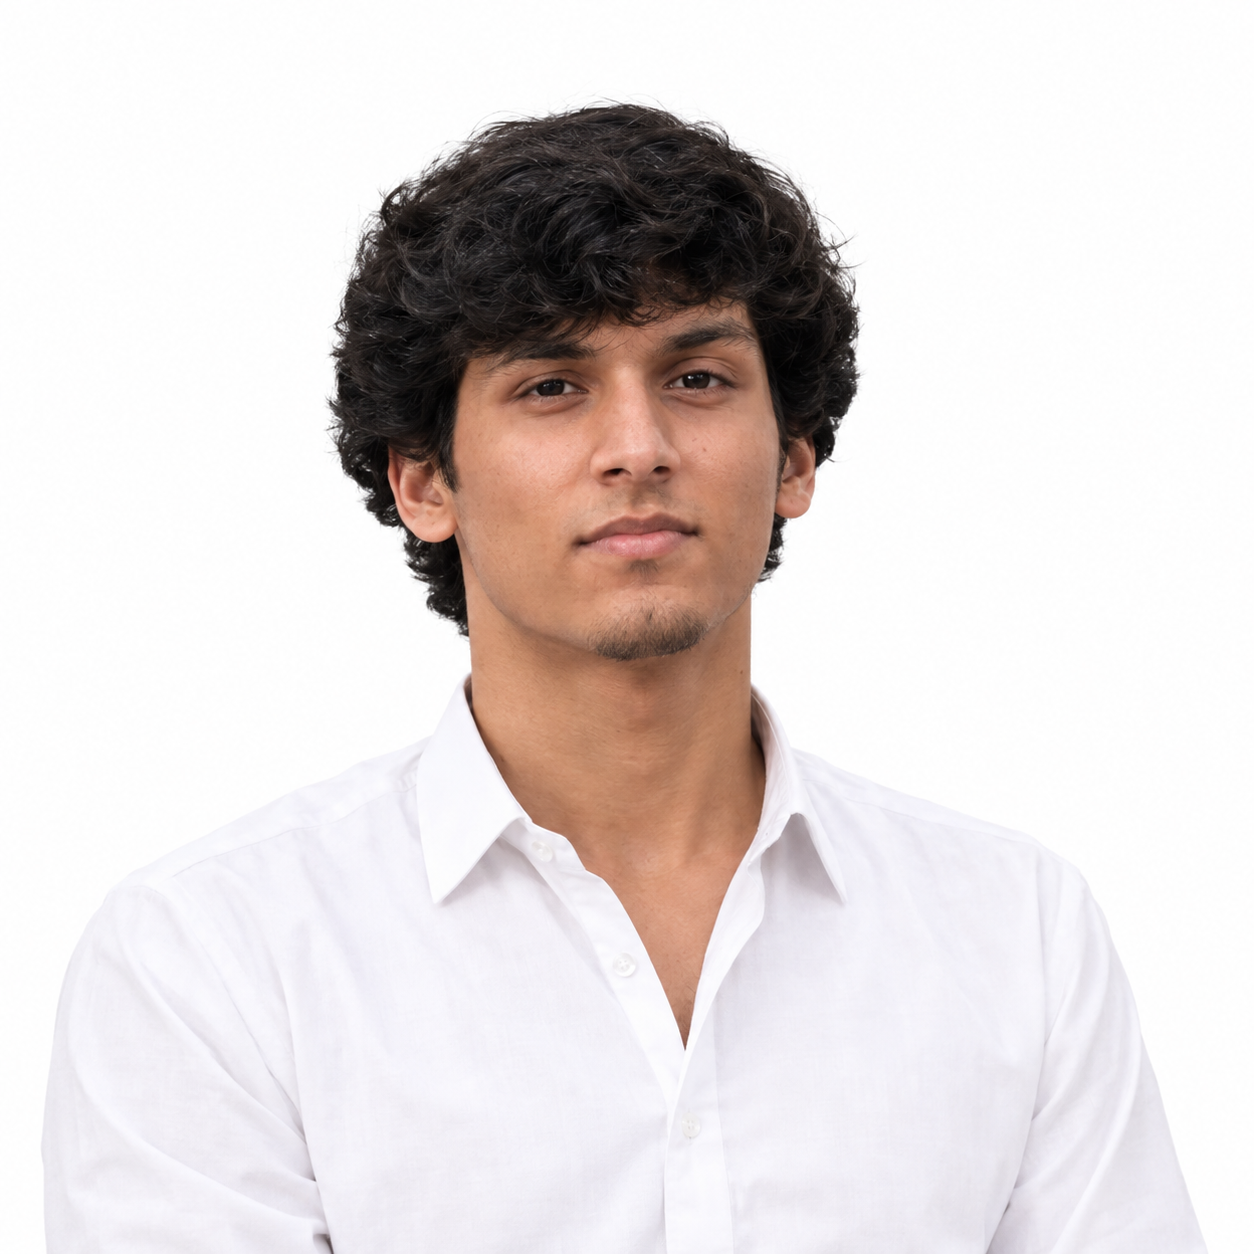
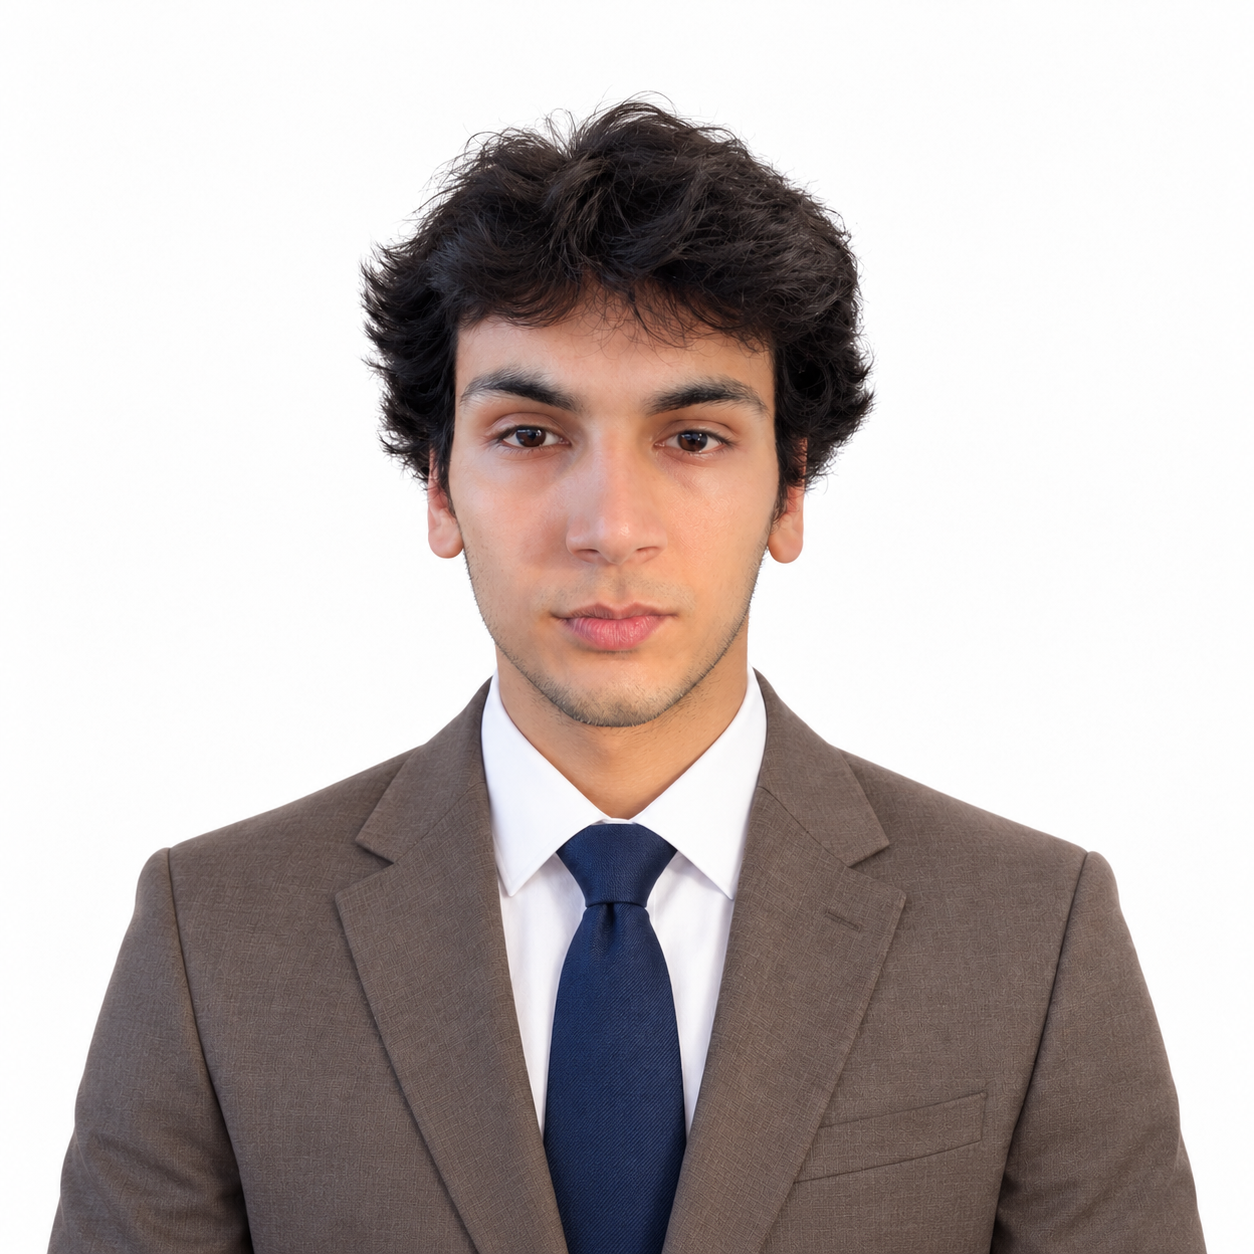
smoothOperator

diff --git a/components/leadership.tsx b/components/leadership.tsx
@@ -171,30 +171,23 @@ export function Leadership() {
       )}
 
       {/* 2 + 3. MD (larger) and Financial Manager (smaller) */}
-      <div className="mt-16 grid items-start gap-12 md:mt-24 md:grid-cols-[1.25fr_1fr] md:gap-10 lg:gap-16">
-        {md && (
-          <article className="group">
-            <Photo p={md} sizes="(min-width: 768px) 50vw, 100vw" />
-            <Details
-              p={md}
-              roleClass="mt-6 text-sm tracking-[0.2em]"
-              nameClass="mt-3 text-3xl md:text-4xl"
-              bioClass="mt-4 text-base md:text-lg"
-            />
-          </article>
-        )}
-        {rest.map((p) => (
-          <article key={p.role} className="group">
-            <Photo p={p} sizes="(min-width: 768px) 40vw, 100vw" className="mx-auto max-w-sm md:max-w-none" />
-            <Details
-              p={p}
-              roleClass="mt-6 text-xs tracking-[0.2em]"
-              nameClass="mt-3 text-2xl md:text-3xl"
-              bioClass="mt-4 text-base"
-            />
-          </article>
-        ))}
-      </div>
+      <div className="mt-16 grid items-start gap-12 md:mt-24 md:grid-cols-2 md:gap-10 lg:gap-16">
+  {[md, ...rest].filter(Boolean).map((p) => (
+    <article key={p.role} className="group">
+      <Photo
+        p={p}
+        sizes="(min-width: 768px) 50vw, 100vw"
+        className="mx-auto w-full max-w-sm md:max-w-none"
+      />
+      <Details
+        p={p}
+        roleClass="mt-6 text-sm tracking-[0.2em]"
+        nameClass="mt-3 text-3xl md:text-4xl"
+        bioClass="mt-4 text-base md:text-lg"
+      />
+    </article>
+  ))}
+</div>
     </section>
   );
 }
